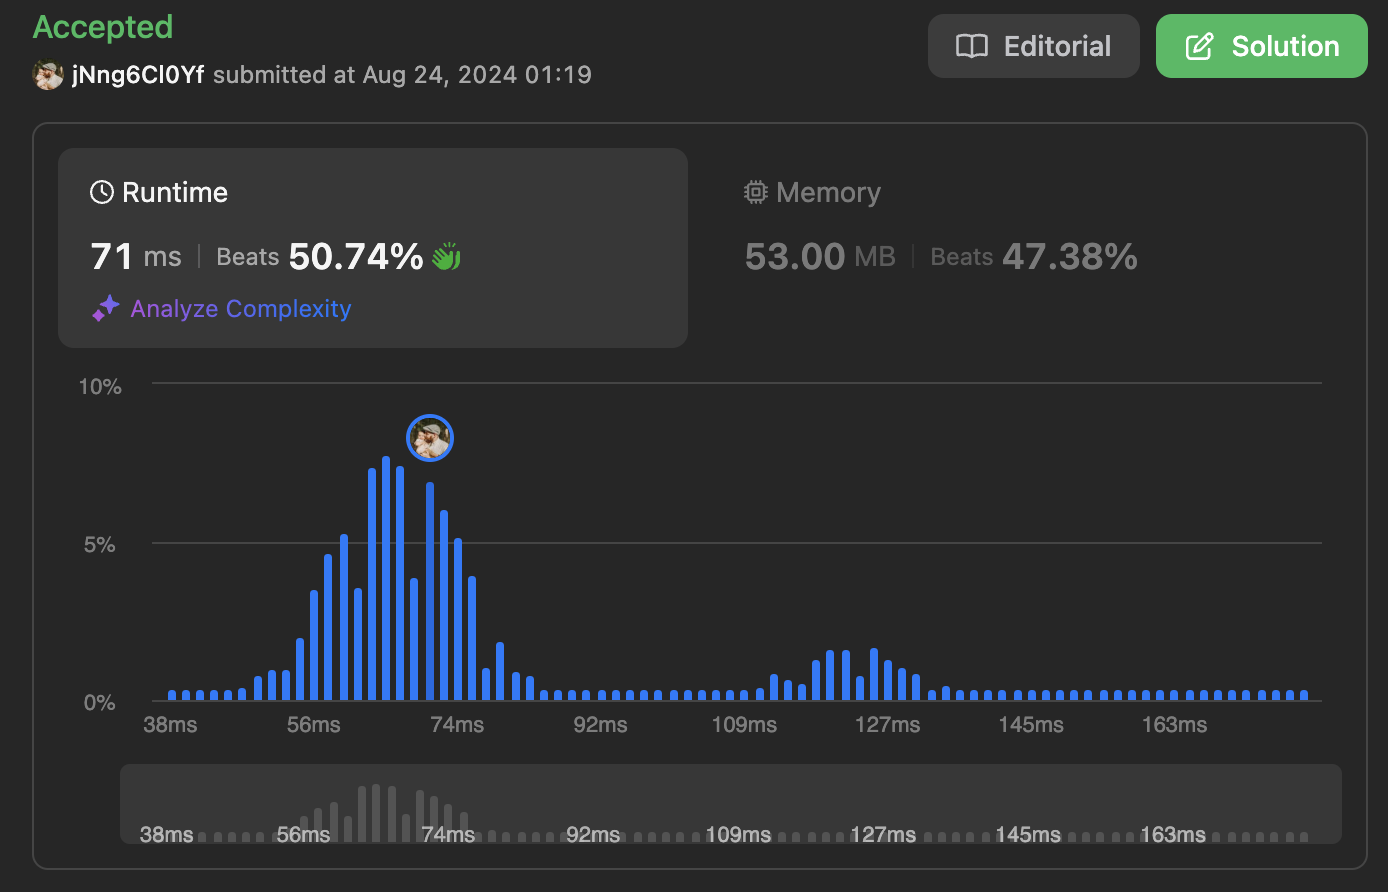
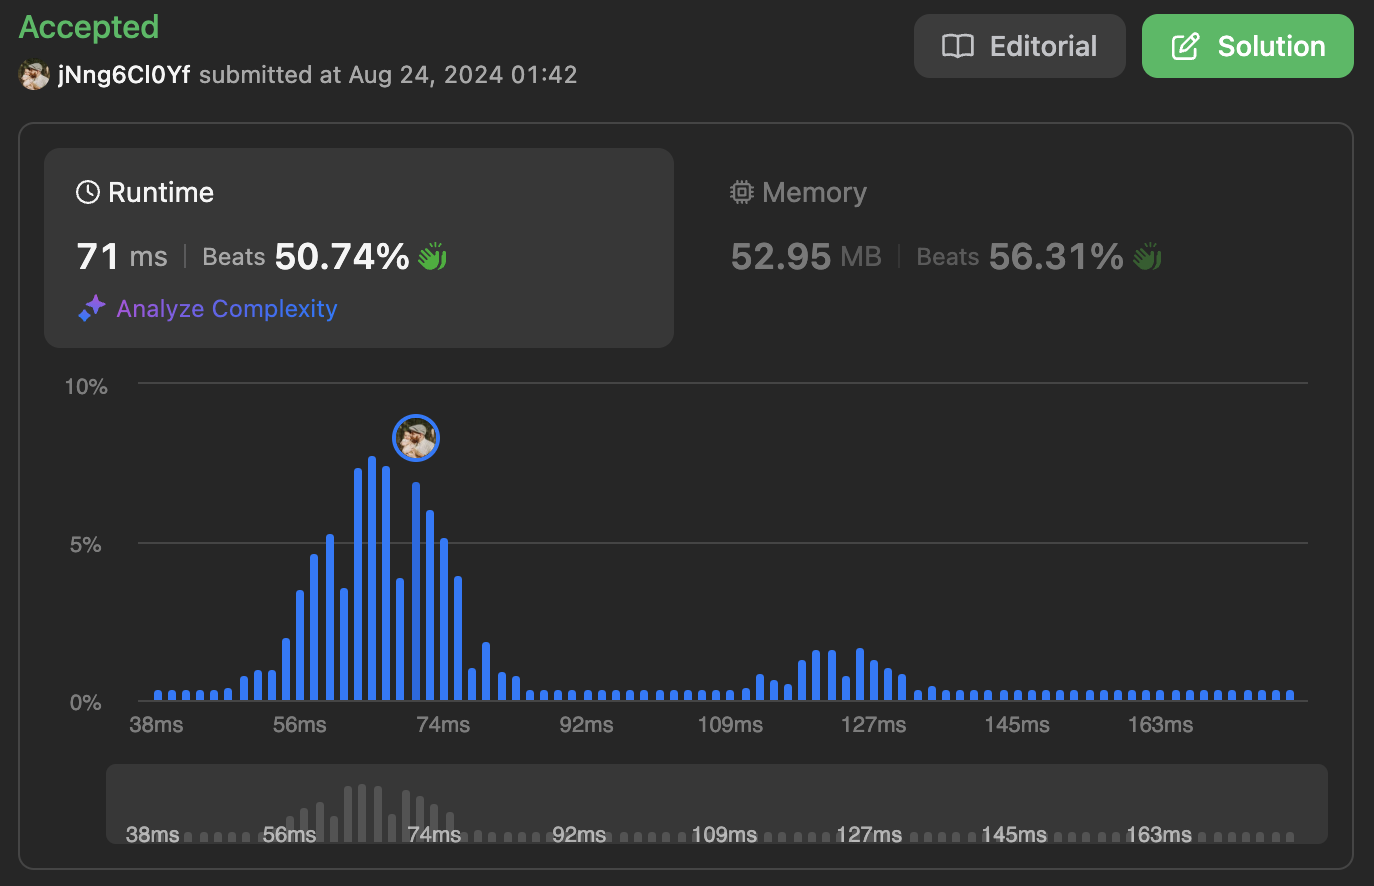
Added 'Remove Duplicates from Sorted Array II' and used the solution to make a small optimization to its predecessor

diff --git a/leetcode/026. Remove Duplicates from Sorted Array/remove-duplicates-from-sorted-array.ts b/leetcode/026. Remove Duplicates from Sorted Array/remove-duplicates-from-sorted-array.ts
@@ -7,7 +7,7 @@ function removeDuplicates(nums: number[]): number {
     let placeholderIndex = 1;
     let iteratorIndex = 1;
 
-    for (iteratorIndex; iteratorIndex < nums.length;) {
+    while (iteratorIndex < nums.length) {
         while (nums[iteratorIndex] === nums[iteratorIndex - 1]) {
             iteratorIndex++;
         }
